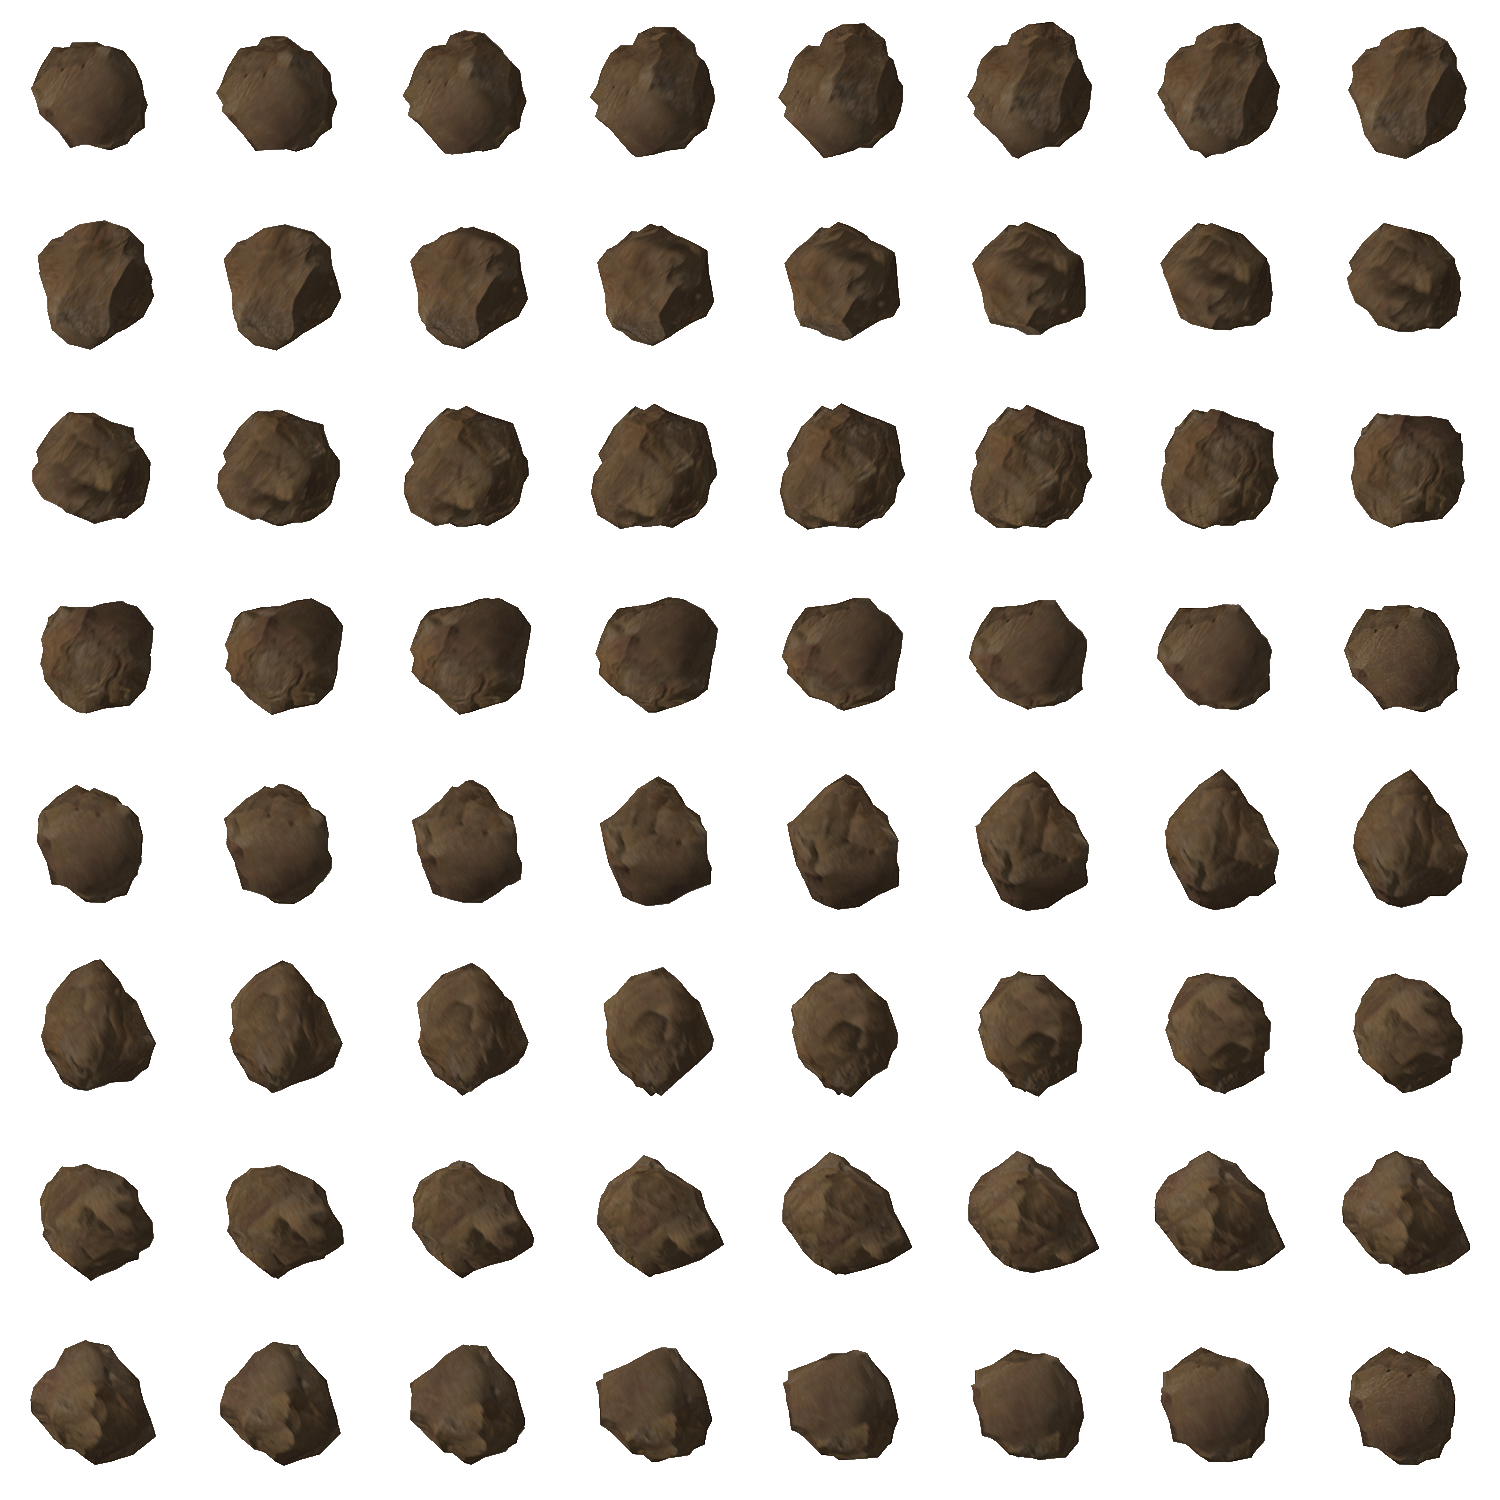
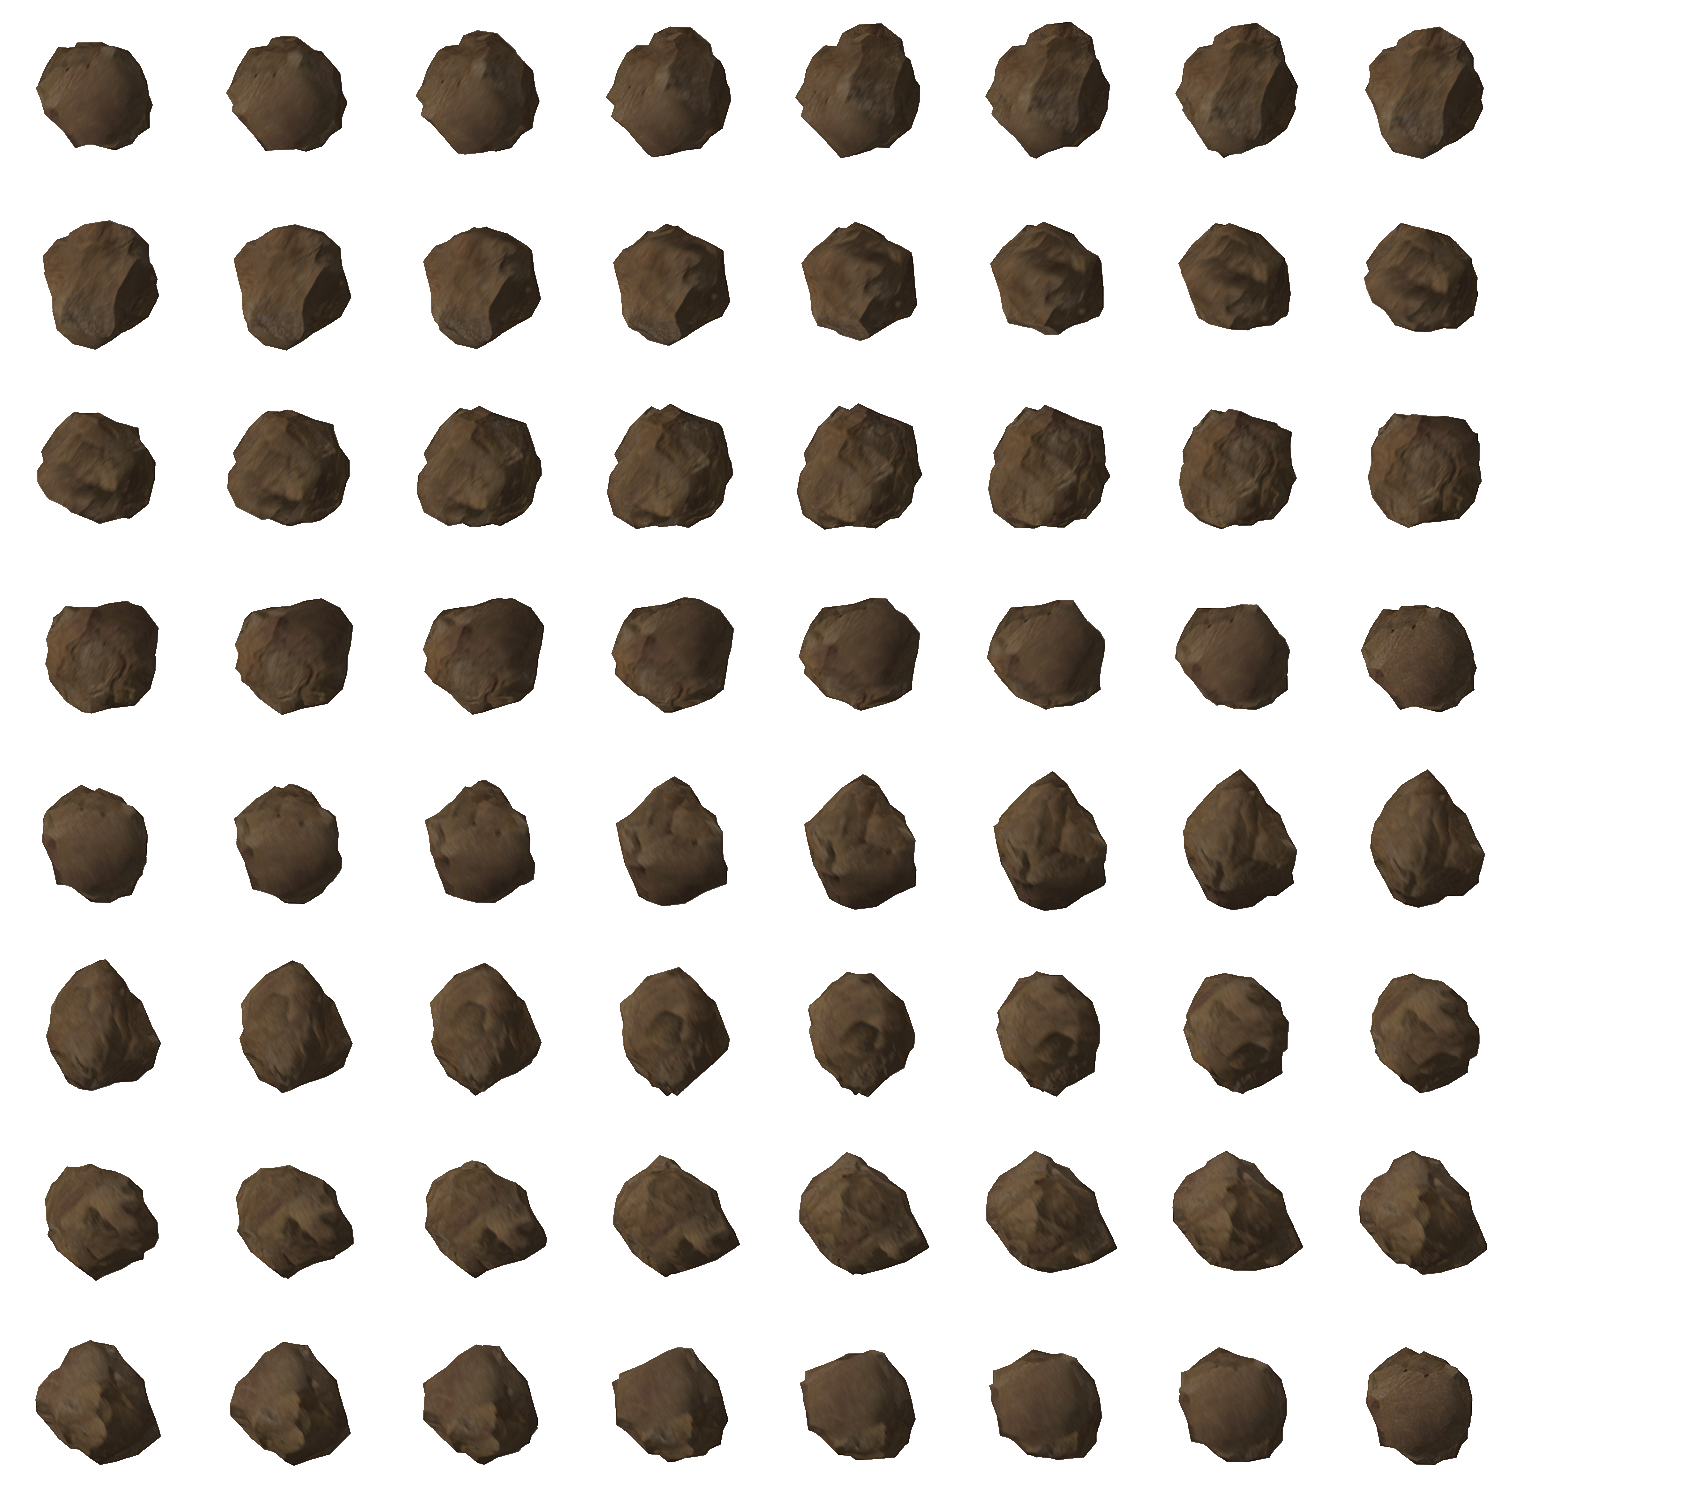
none

diff --git a/SpaceObject.js b/SpaceObject.js
@@ -459,8 +459,8 @@ function Asteroid(game, angle, velocity, x, y, size) {
 	/*this.animations = {"normal": new Animation(AM.getAsset("./images/asteroid.png"), 8, 52, 32, 32, 0.01, 8, 64, true, false),
 					   "reverse": new Animation(AM.getAsset("./images/asteroid.png"), 8, 52, 32, 32, 0.01, 8, 64, true, true),
 					   "exploding": new Animation(AM.getAsset("./images/asteroid_explosion.png"), 2, 2, 85, 84, 0.03, 4, 16, false, false)};*/
-	this.animations = {"normal": new Animation(AM.getAsset("./images/asteroid.png"), 0, 0, 190, 190, 0.5, 8, 64, true, false),
-			           "reverse": new Animation(AM.getAsset("./images/asteroid.png"), 0, 0, 190, 190, 0.5, 8, 64, true, true),
+	this.animations = {"normal": new Animation(AM.getAsset("./images/asteroid.png"), 0, 0, 190, 190, 0.05, 8, 64, true, false),
+			           "reverse": new Animation(AM.getAsset("./images/asteroid.png"), 0, 0, 190, 190, 0.05, 8, 64, true, true),
 			   "exploding": new Animation(AM.getAsset("./images/asteroid_explosion.png"), 2, 2, 85, 84, 0.03, 4, 16, false, false)};
 	/*this.animations = {"normal": new Animation(AM.getAsset("./images/asteroid.png"), 0, 0, 128, 128, 0.01, 8, 64, true, false),
 			   "reverse": new Animation(AM.getAsset("./images/asteroid.png"), 0, 0, 128, 128, 0.01, 8, 64, true, true),

diff --git a/GameEngine.js b/GameEngine.js
@@ -391,11 +391,15 @@ GameEngine.prototype.changeState = function() {
 
 GameEngine.prototype.makeProtoEnemies = function() {
     this.addEntity(new Asteroid(this, 0, {x: 0, y: 0}, -400, 0, 3));
-    this.addEntity(new Asteroid(this, 0, {x: 0, y: 0}, 200, 0, 6));
+    this.addEntity(new Asteroid(this, 0, {x: 0, y: 0}, 200, 0, 3));
     //this.addEntity(new Weapon(this, 0, {x: 0, y: 0}, -100, 54, 0, "default"));
     //this.addEntity(new Weapon(this, 0, {x: 0, y: 0}, -100, -54, 0, "default"));
-    
-    //this.addEntity(new PowerUp(this, 2 * Math.PI,{x:1, y:0}, -100, 33, "bombPowerUp"));
+
+    this.addEntity(new PowerUp(this, 2 * Math.PI,{x:1, y:0}, -100, -200, "bombPowerUp"));
+    this.addEntity(new PowerUp(this, 2 * Math.PI,{x:1, y:0}, -100, -100, "fillShieldPowerUp"));
+    this.addEntity(new PowerUp(this, 2 * Math.PI,{x:1, y:0}, -100, 0, "extraLifePowerUp"));
+    this.addEntity(new PowerUp(this, 2 * Math.PI,{x:1, y:0}, -100, 100, "tripleGunPowerUp"));
+    this.addEntity(new PowerUp(this, 2 * Math.PI,{x:1, y:0}, -100, 200, "backGunPowerUp"));
     //this.addEntity(new AlienShip(this, {x:0, y:0}, -100, 28, "alien"));
     //this.addEntity(new AlienShip(this, {x:1, y:0}, -100, 45, "none"));
 }

diff --git a/Animation.js b/Animation.js
@@ -55,7 +55,7 @@ Animation.prototype.drawFrame = function (tick, ctx, x, y,  drawWidth, drawHeigh
 			xstart += this.frameWidth[i];
 		}
 	} else {	
-		xstart = xindex * currentFrameWidth + xstart;
+		xstart = xindex * (currentFrameWidth + xstart);
 	}
     
 
